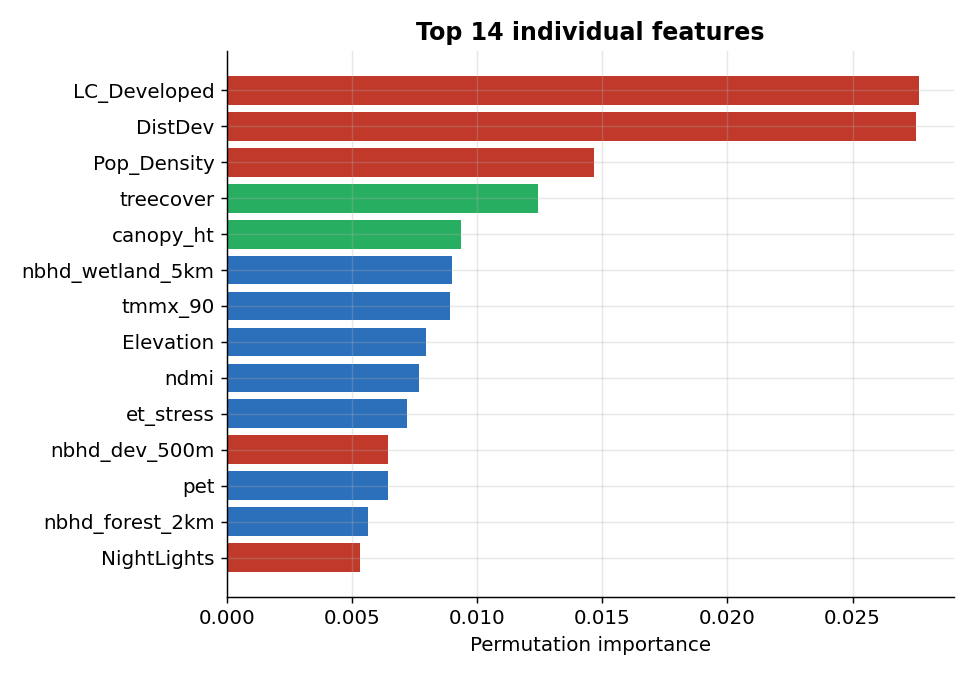
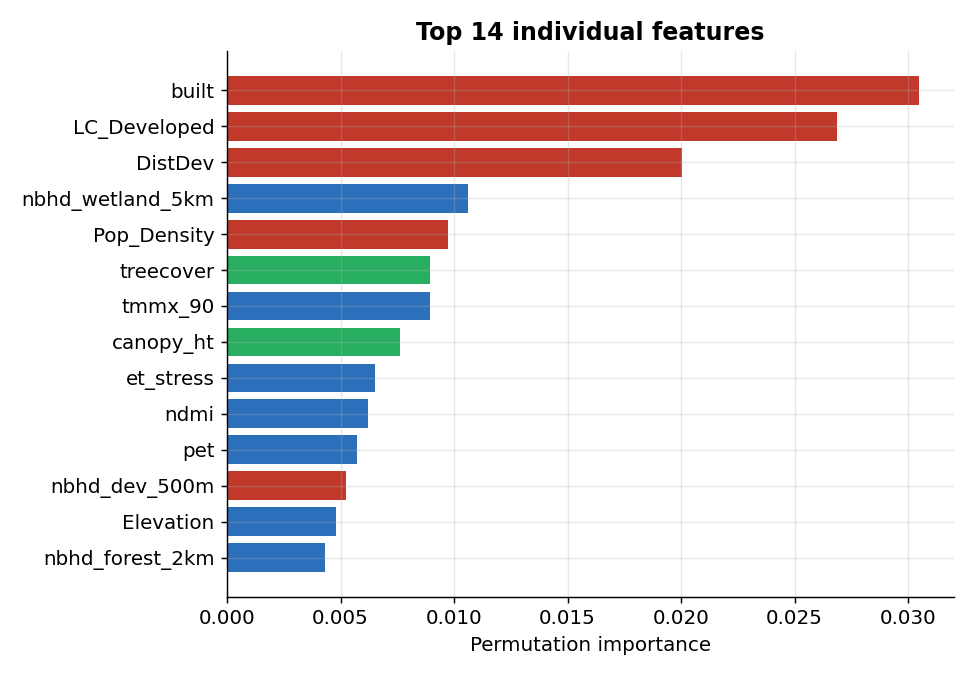
Journey figure through v13; figures consistent at 0.862 final model

diff --git a/make_figures.py b/make_figures.py
@@ -29,13 +29,15 @@ print('loading...')
 ve = _safe('Training Data Florida/v11e/*.csv').dropna()
 vh = _safe('Training Data Florida/v11h_canopy/*.csv').dropna()
 vm = _safe('Training Data Florida/v12_moisture/*.csv')
+v13 = _safe('Training Data Florida/v13_human/*.csv')
 CANF = ['canopy_ht', 'treecover', 'canopy_ht_2km', 'treecover_2km']
 V12 = ['ndmi', 'smap_root', 'lst_day', 'pet']  # moisture winners (null ones dropped)
-for d in (ve, vh, vm):
+for d in (ve, vh, vm, v13):
     d['k'] = d.lon.round(5).astype(str) + '_' + d.lat.round(5).astype(str)
 vm['et_stress'] = vm.et / (vm.pet + 1)
 df = (ve.merge(vh[['k'] + CANF].drop_duplicates('k'), on='k')
-        .merge(vm[['k'] + V12 + ['et_stress']].drop_duplicates('k'), on='k', how='left')).reset_index(drop=True)
+        .merge(vm[['k'] + V12 + ['et_stress']].drop_duplicates('k'), on='k', how='left')
+        .merge(v13[['k', 'built']].dropna().drop_duplicates('k'), on='k', how='left')).reset_index(drop=True)
 df['pdsi_traj_90'] = df.pdsi_0 - df.pdsi_90; df['vpd_trend'] = df.vpd_7 - df.vpd_90
 df['pr_deficit'] = df.pr_365 / 4 - df.pr_90; df['fm100_trend'] = df.fm100_30 - df.fm100_90
 df['dryness'] = df.vpd_30 + df.erc_30 - df.pr_90 / 50
@@ -63,9 +65,9 @@ AUC = roc_auc_score(yt, pt)
 print(f'  held-out AUC {AUC:.4f}, n={mask.sum()}')
 
 # ---- Fig 1: the honesty journey ----
-vers = ['v2\nCNN', 'v3', 'v6', 'v7', 'v8\nFIRMS', 'v10b\nFPA-FOD', 'v11', 'v12\nfinal']
-raw = [0.95, 0.71, 0.93, 0.80, 0.72, 0.811, 0.835, 0.857]
-honest = [0.55, 0.71, 0.60, 0.67, 0.716, 0.755, 0.797, 0.831]
+vers = ['v2\nCNN', 'v3', 'v6', 'v7', 'v8\nFIRMS', 'v10b', 'v11\ncanopy', 'v12\nmoist', 'v13\nfinal']
+raw = [0.95, 0.71, 0.93, 0.80, 0.72, 0.811, 0.835, 0.857, 0.862]
+honest = [0.55, 0.71, 0.60, 0.67, 0.716, 0.755, 0.797, 0.831, 0.834]
 xs = np.arange(len(vers))
 fig, ax = plt.subplots(figsize=(10, 5.2))
 ax.plot(xs, raw, 'o--', color=C['gray'], lw=2, ms=8, label='What we first reported (raw)')
@@ -118,7 +120,7 @@ fig.savefig('figures/04_precision_at_k.png'); plt.close(fig)
 
 # ---- Fig 5: feature importance by category ----
 def cat(f):
-    if f in ['Pop_Density', 'DistDev', 'LC_Developed', 'NightLights', 'nbhd_dev_500m']:
+    if f in ['Pop_Density', 'DistDev', 'LC_Developed', 'NightLights', 'nbhd_dev_500m', 'built']:
         return 'human access'
     if f in ['canopy_ht', 'treecover', 'canopy_ht_2km', 'treecover_2km']:
         return 'canopy / fuel structure'
@@ -151,7 +153,7 @@ fig.savefig('figures/06_importance_top.png'); plt.close(fig)
 
 # ---- Fig 7: the honesty bracket (crutch decomposition) ----
 labels = ['as-is\n(operational)', 'remoteness\nremoved', 'strictest\nsingle', 'ALL human\nstripped (floor)']
-vals = [0.857, 0.831, 0.809, 0.809]
+vals = [0.862, 0.834, 0.826, 0.796]
 fig, ax = plt.subplots(figsize=(6.6, 4.6))
 bars = ax.bar(labels, vals, color=[C['ok'], C['blue'], C['blue'], C['gray']])
 ax.axhline(0.5, color=C['gray'], ls='--'); ax.text(3.1, 0.51, 'chance', color=C['gray'], fontsize=9, ha='right')
